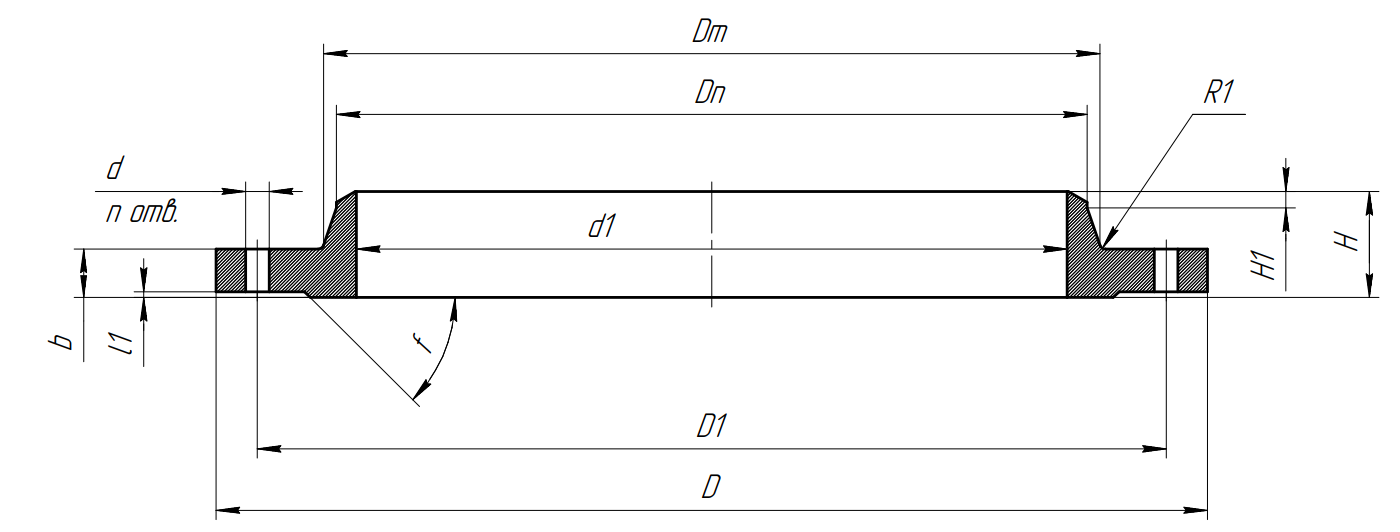
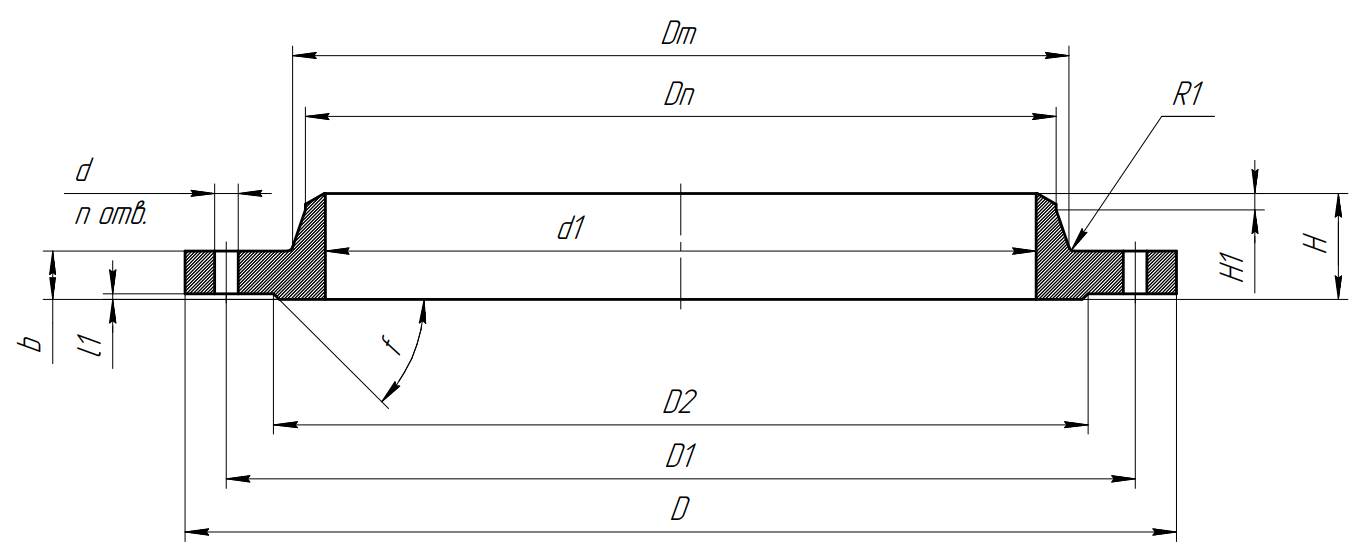
NumericBox_TextChanged(object sender, TextChangedEventArgs e) has been added to the NumericBox class. A new size (H2) has been added.

Changed region(s): [[0.0, 0.0301, 0.9912, 0.9925], [0.8363, 0.1504, 0.8982, 0.2707], [0.2788, 0.6015, 0.3097, 0.6617]]

diff --git a/MainDialog.xaml b/MainDialog.xaml
@@ -146,7 +146,7 @@
                             </StackPanel>
                         </GroupBox>
 
-                        <GroupBox Header="Прочие размеры"  Height="100" VerticalAlignment="Bottom" Margin="0 76">
+                        <GroupBox Header="Прочие размеры"  Height="120" VerticalAlignment="Bottom" Margin="0 55">
                             <StackPanel>
 
                                 <StackPanel Style="{StaticResource FieldSet}">
@@ -162,6 +162,10 @@
                                 <StackPanel Style="{StaticResource FieldSet}">
                                     <Label Style="{StaticResource LabelFromFieldSet}" Content="f"></Label>
                                     <overrideWPF:NumericBox  Style="{StaticResource TextBoxFromFieldSet}" IsTextValid="{Binding IsfValid}" Text="{Binding ValueOffSize}"></overrideWPF:NumericBox>
+                                </StackPanel>
+                                <StackPanel Style="{StaticResource FieldSet}">
+                                    <Label Style="{StaticResource LabelFromFieldSet}" Content="H2"></Label>
+                                    <overrideWPF:NumericBox  Style="{StaticResource TextBoxFromFieldSet}" IsTextValid="{Binding IsH2Valid}" Text="{Binding ValueOfH2Size}"></overrideWPF:NumericBox>
                                 </StackPanel>
                             </StackPanel>
                         </GroupBox>

diff --git a/ViewModel/CollarFlangeViewModel.cs b/ViewModel/CollarFlangeViewModel.cs
@@ -282,6 +282,20 @@ namespace Collar_flange_configurator.ViewModel
             }
         }
 
+        private bool isH2Valid;
+        public bool IsH2Valid
+        {
+            get
+            {
+                return isH2Valid;
+            }
+            set
+            {
+                isH2Valid = value;
+                OnValidationPropertyChanged();
+            }
+        }
+
 
 
 
@@ -482,8 +496,22 @@ namespace Collar_flange_configurator.ViewModel
                 OnPropertyChanged();
             }
         }
+        //IsH2Valid
 
 
+        private string valueOfH2Size;
+        public string ValueOfH2Size
+        {
+            get
+            {
+                return valueOfH2Size;
+            }
+            set
+            {
+                valueOfH2Size = value;
+                OnPropertyChanged();
+            }
+        }
 
         public event PropertyChangedEventHandler PropertyChanged;
         protected void OnPropertyChanged([CallerMemberName] string propertyName = null)
@@ -524,6 +552,8 @@ namespace Collar_flange_configurator.ViewModel
                 IsR1Valid
                             &&
                 IsfValid
+                            &&
+                IsH2Valid
             );
         }
 
@@ -548,7 +578,7 @@ namespace Collar_flange_configurator.ViewModel
 
             IsD1Valid = true;
 
-            IsdValid = false;
+            IsdValid = true;
 
             IsnValid = true;
 
@@ -557,6 +587,8 @@ namespace Collar_flange_configurator.ViewModel
             IsR1Valid = true;
 
             IsfValid = true;
+
+            IsH2Valid = true;
         }
     }
 }

diff --git a/WPF override/NumericBox.cs b/WPF override/NumericBox.cs
@@ -35,5 +35,23 @@ namespace Collar_flange_configurator.WPF_override
                 typeof(NumericBox),
                 new FrameworkPropertyMetadata(true, FrameworkPropertyMetadataOptions.BindsTwoWayByDefault, new PropertyChangedCallback(IsTextValidChanged))
         );
+
+        private void NumericBox_TextChanged(object sender, TextChangedEventArgs e)
+        {
+             if (Text.Contains(','))
+             {
+                Text = Text.Replace(",",".");
+                CaretIndex = Text.Length;
+             }
+        }
+        
+        
+        
+        public NumericBox()
+        {
+            TextChanged += NumericBox_TextChanged;
+        }
+
+        
     }
 }
